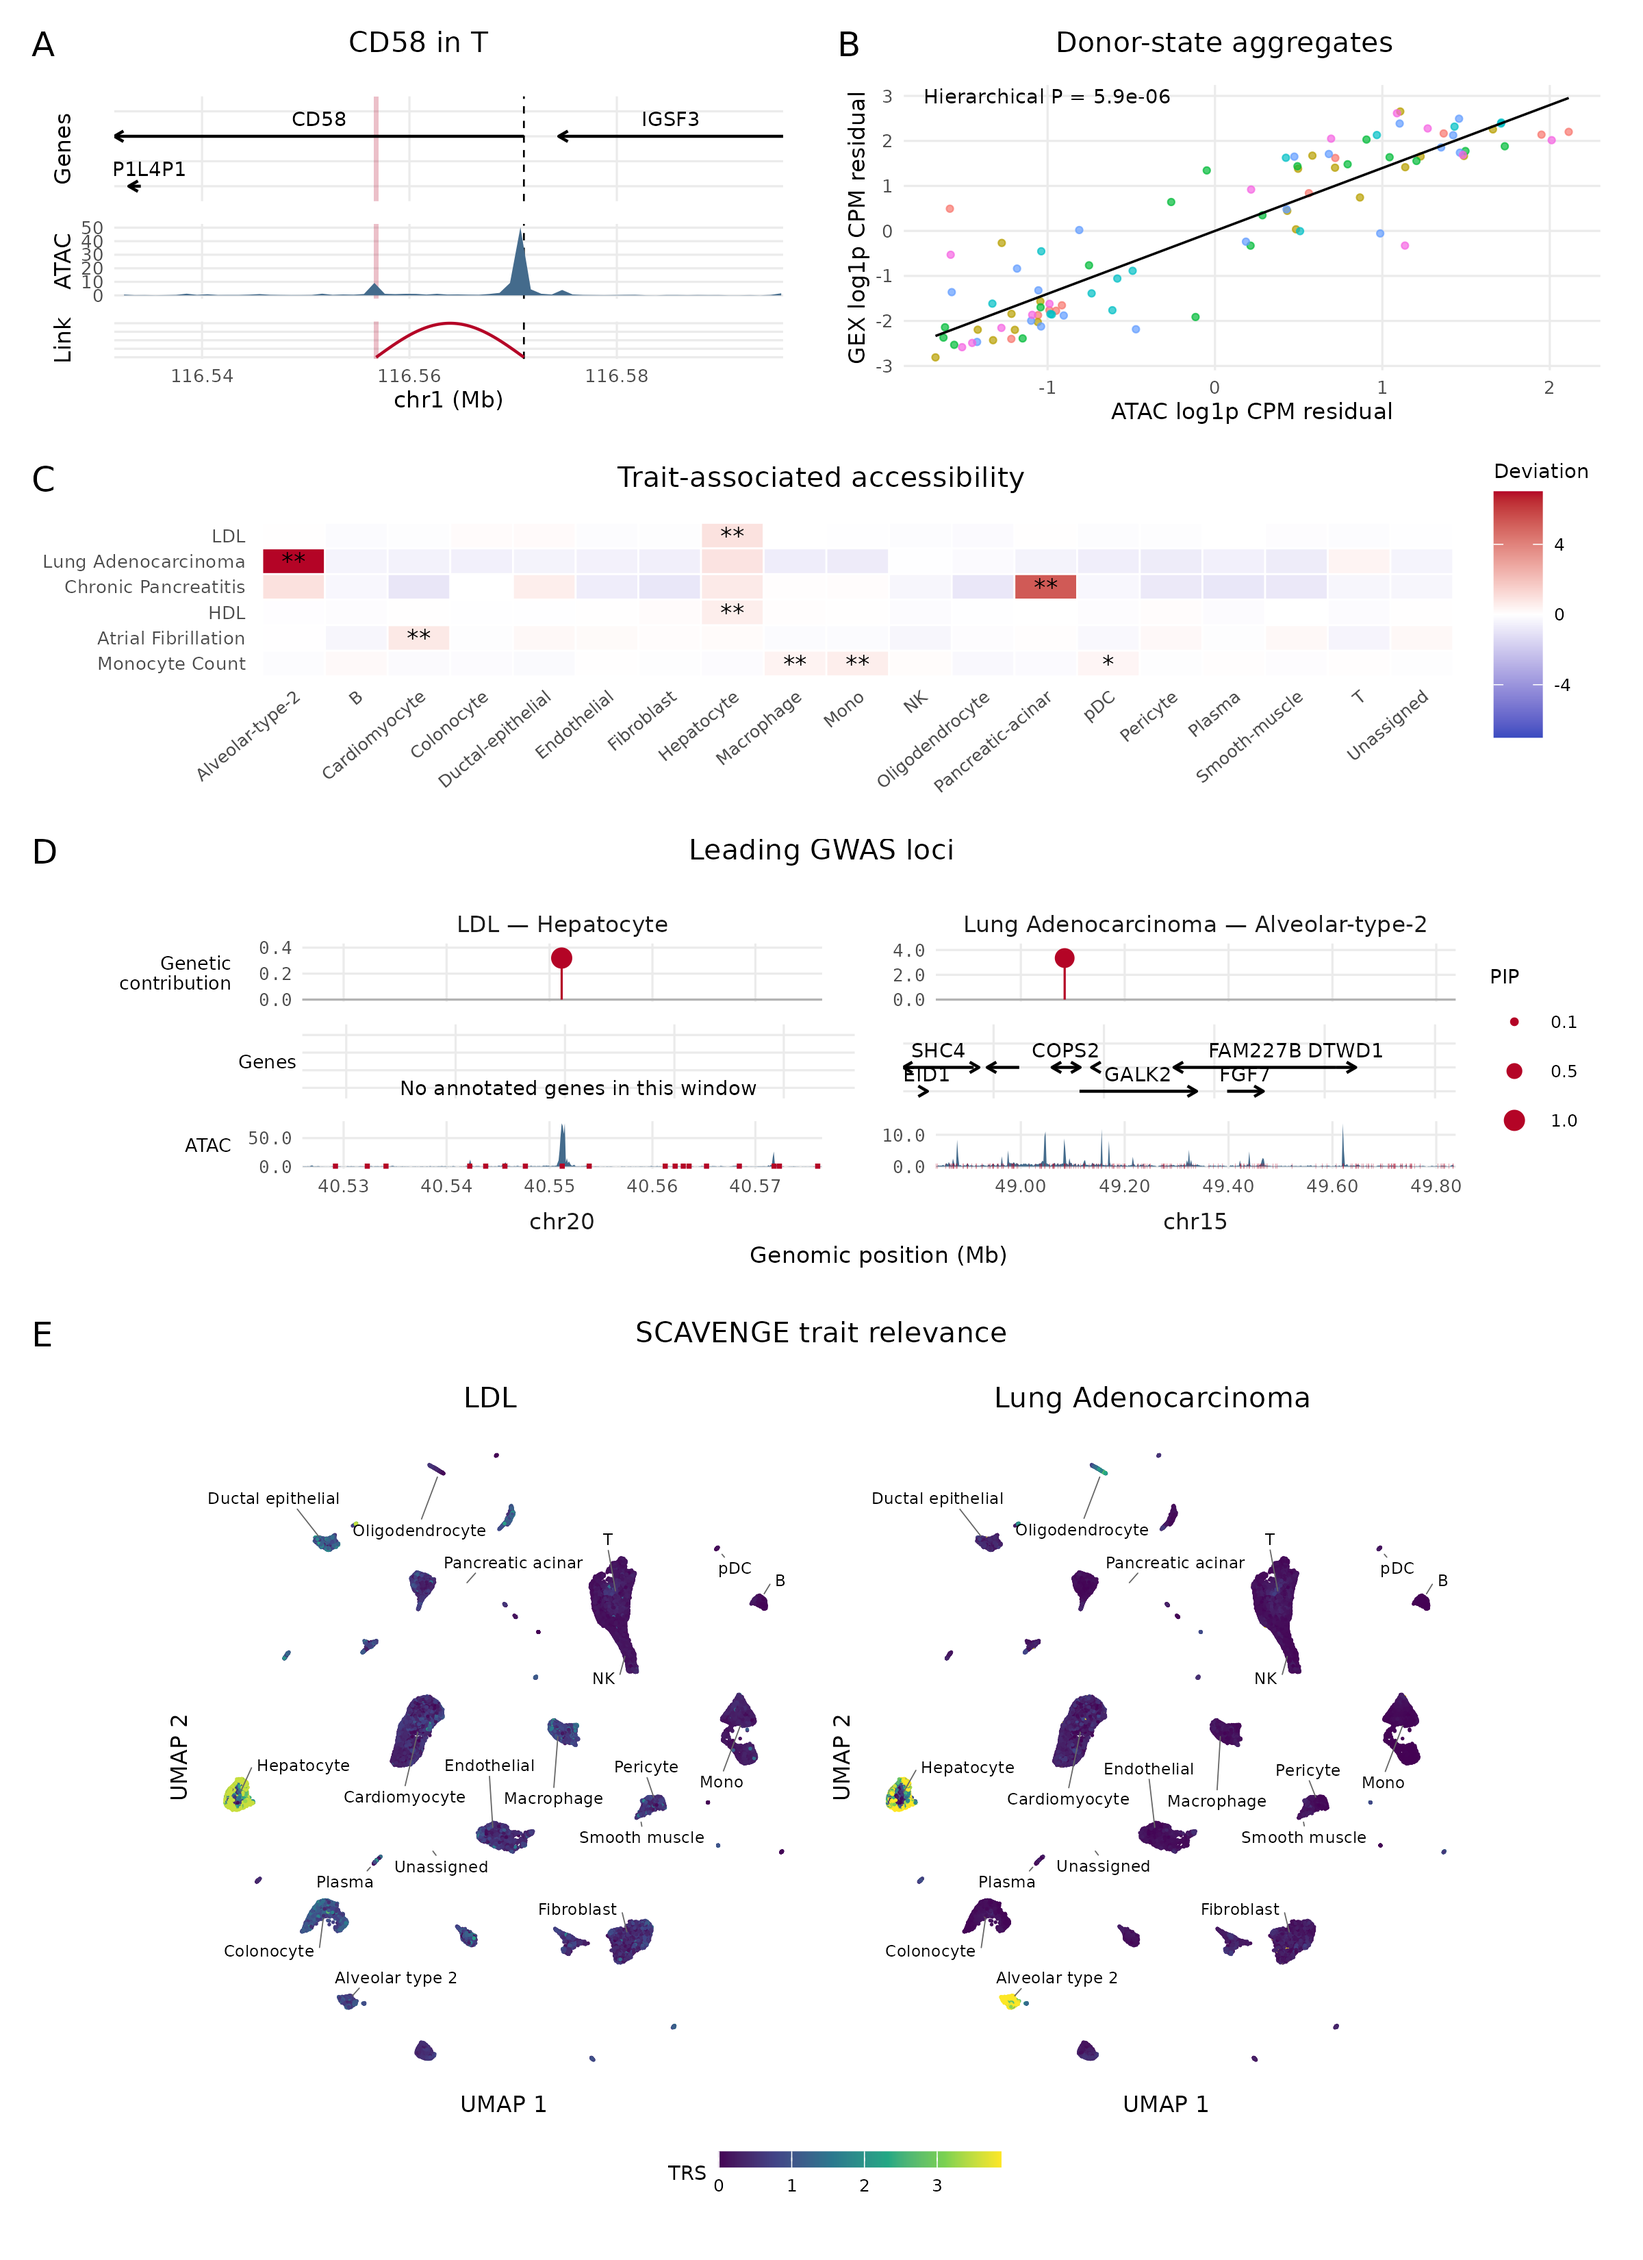
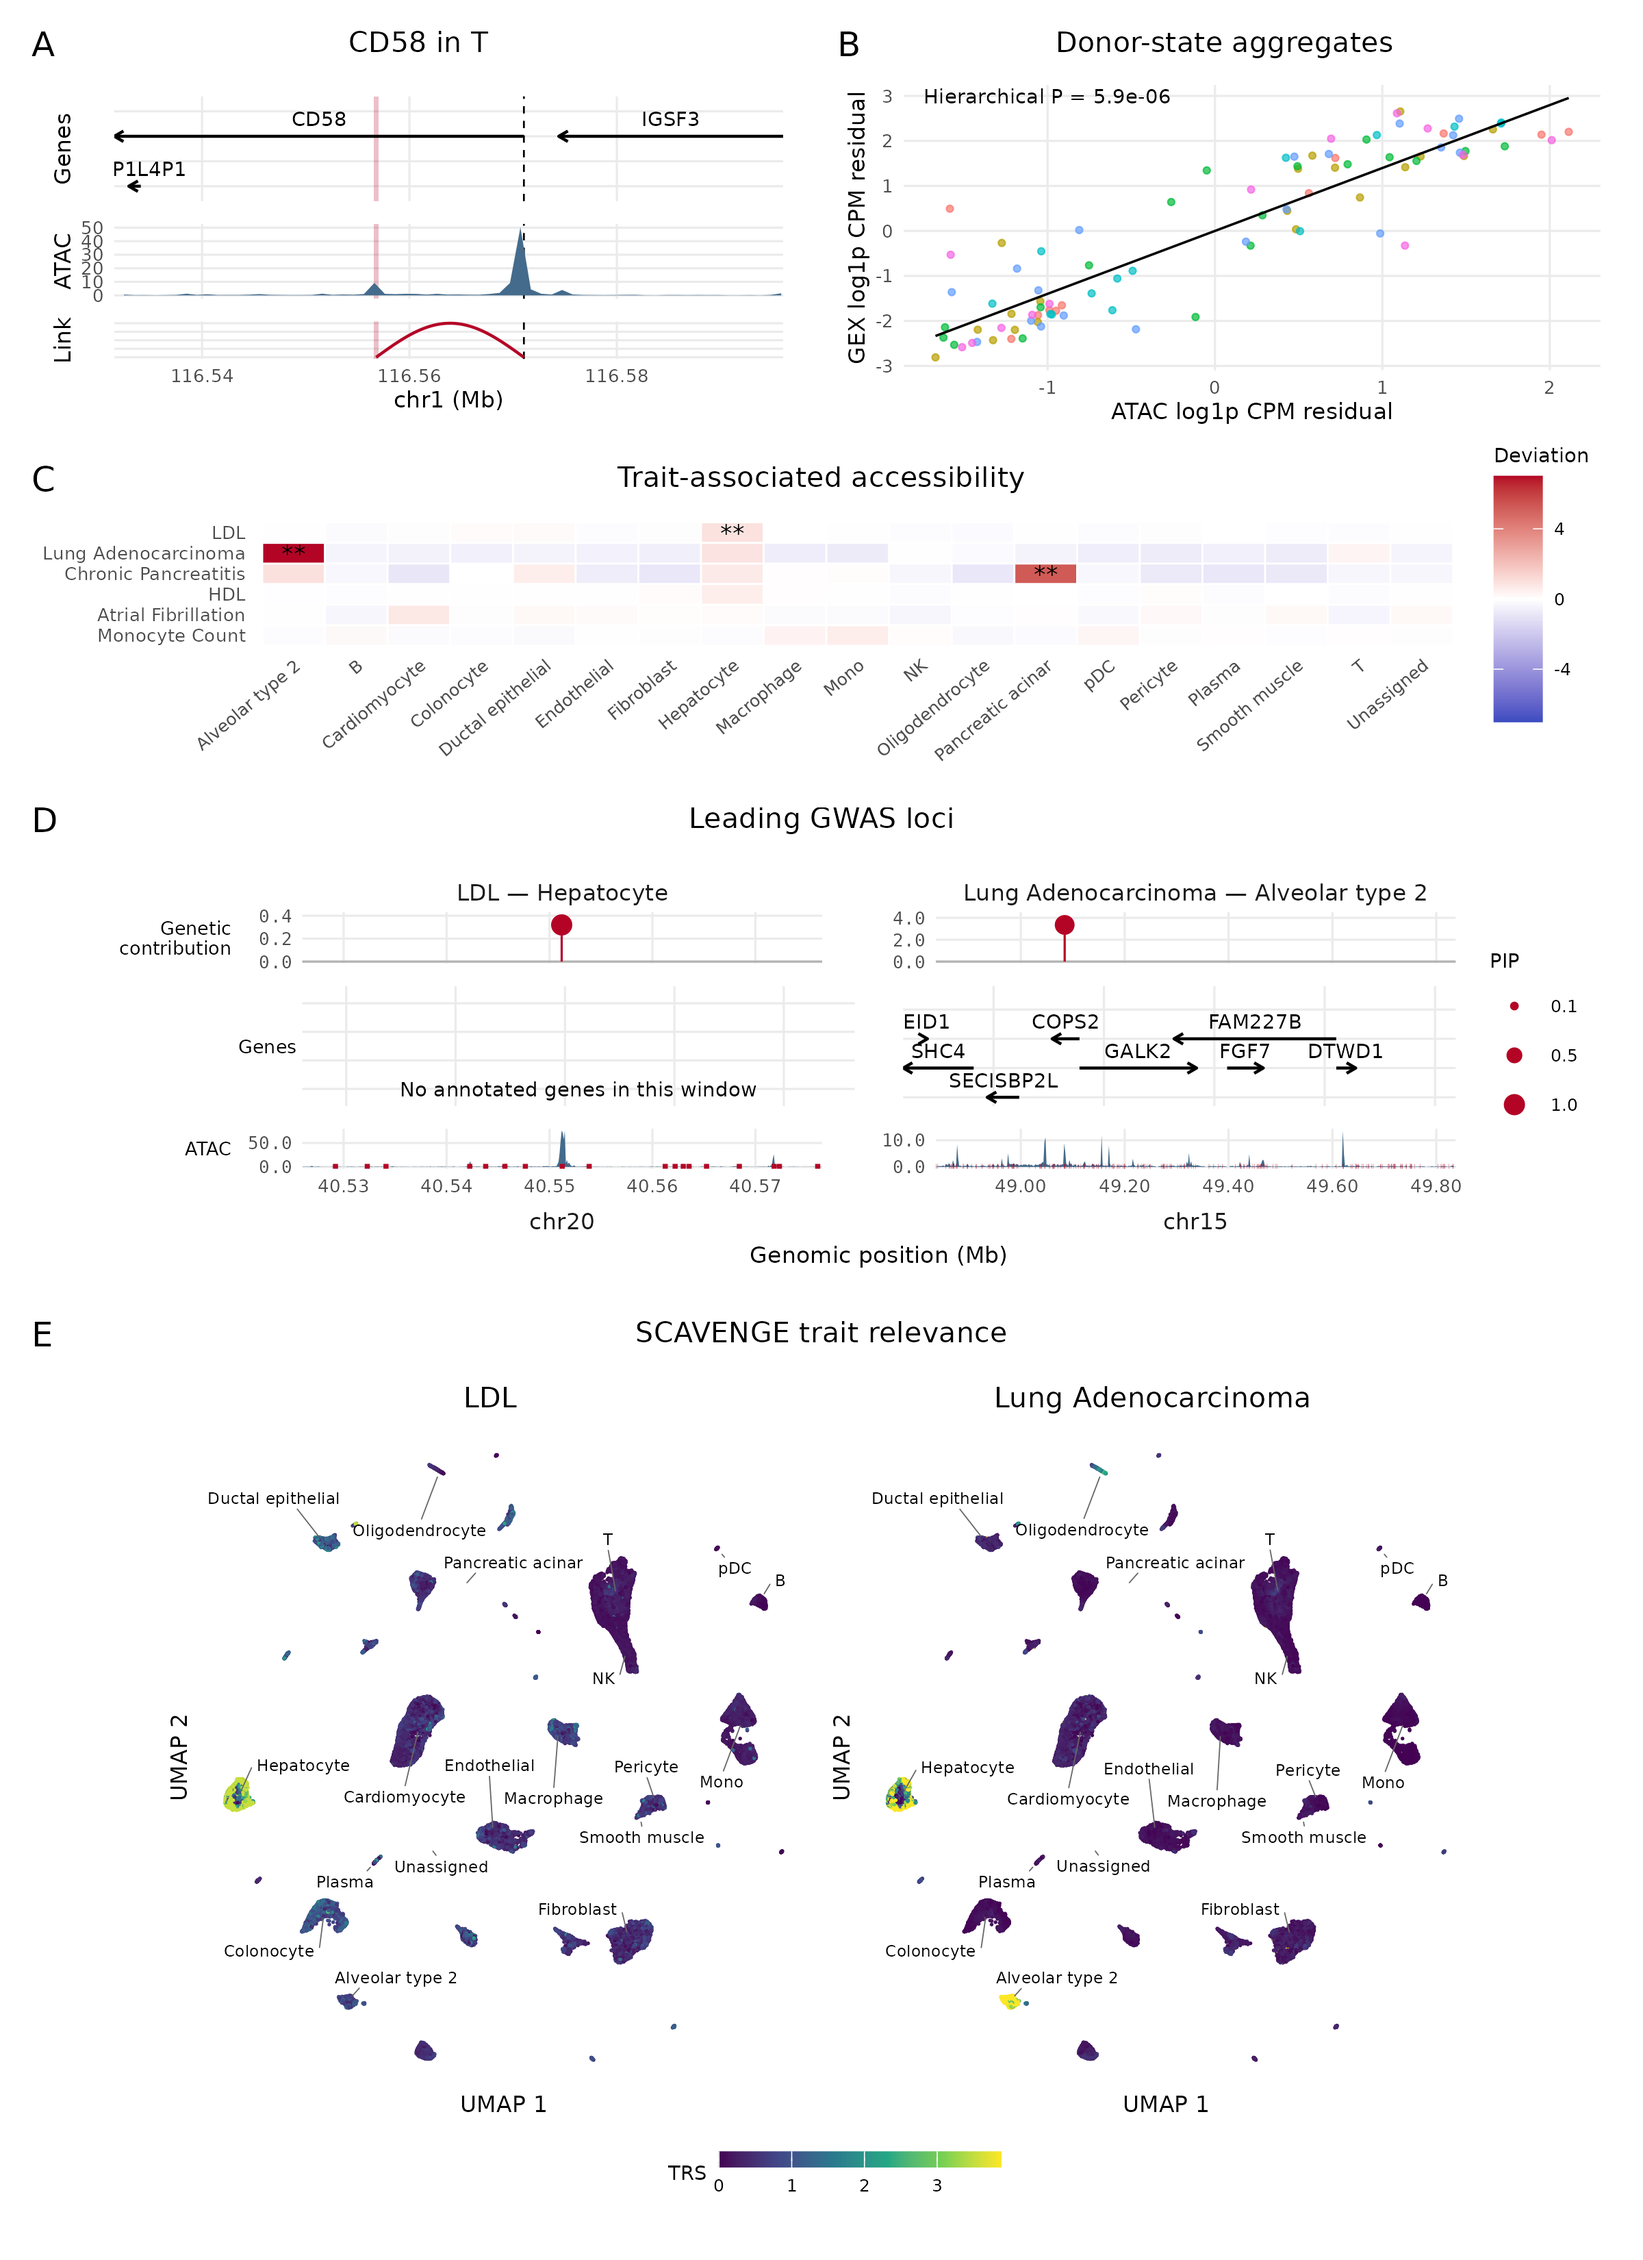
Mark Figure 1 associations after multiple-testing correction
Panel C's stars now mark Benjamini-Hochberg-adjusted P across all
trait-cell-type tests instead of nominal P. Cell types are spelled with
spaces in panels C to E alike, and panel D's gene track shows
protein-coding genes in lanes spaced by their labels, with more height,
so no label overlaps another gene. Panel C gives up a little height for
it.

cascading_target_breaking: figure_1_panel_C.mixed_human_31x, figure_1_panel_D.mixed_human_31x, figure_1_plot.mixed_human_31x
contained_target_breaking: figure_1_panel_E.mixed_human_31x

diff --git a/pipeline_manuscript_figures/README.md b/pipeline_manuscript_figures/README.md
@@ -48,11 +48,13 @@ Selections are deterministic but follow the data.
   aggregate residuals coloured by donor with a descriptive regression line. The
   ranking is not an FDR claim, and aggregates are not independent donors.
 - **C:** up to six traits with a raw chromVAR Z ≥ qnorm(0.95), ordered by their
-  strongest cell type, across all cell types; stars mark unadjusted upper-tail
-  P ≤ 0.05 and P ≤ 0.01.
+  strongest cell type, across all cell types; stars mark upper-tail P ≤ 0.05
+  and P ≤ 0.01 after Benjamini–Hochberg adjustment across all trait–cell-type
+  tests.
 - **D:** for the two strongest cell-type–trait combinations, the locus with the
   largest absolute contribution to the deviation, as aligned facets of variant
-  contributions (point area: PIP), genes, focal coverage and consensus peaks.
+  contributions (point area: PIP), protein-coding genes, focal coverage and
+  consensus peaks.
 - **E:** SCAVENGE trait-relevance scores of the same two traits on the WNN UMAP,
   with a shared colour scale, unclipped scores and cell-type labels.
 
